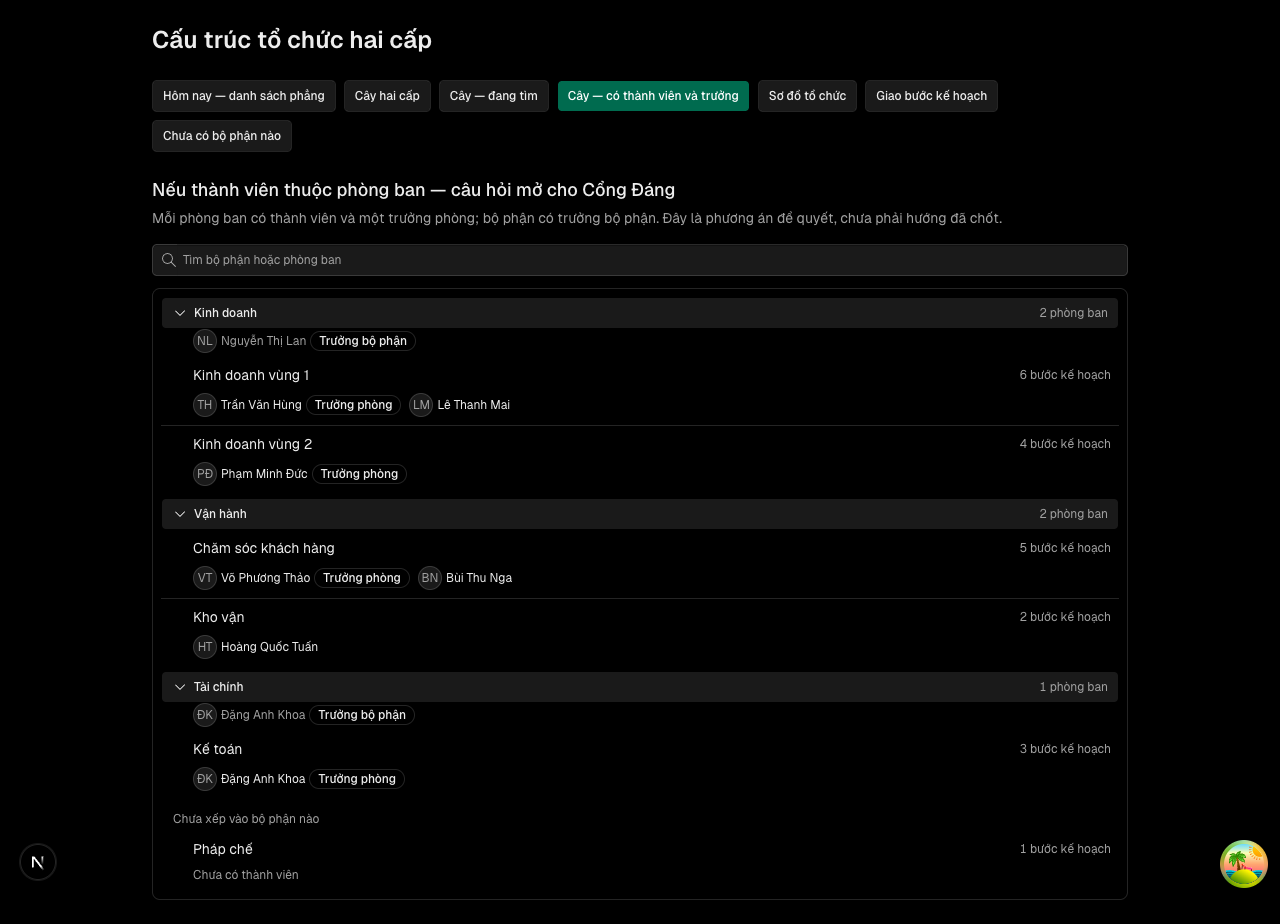
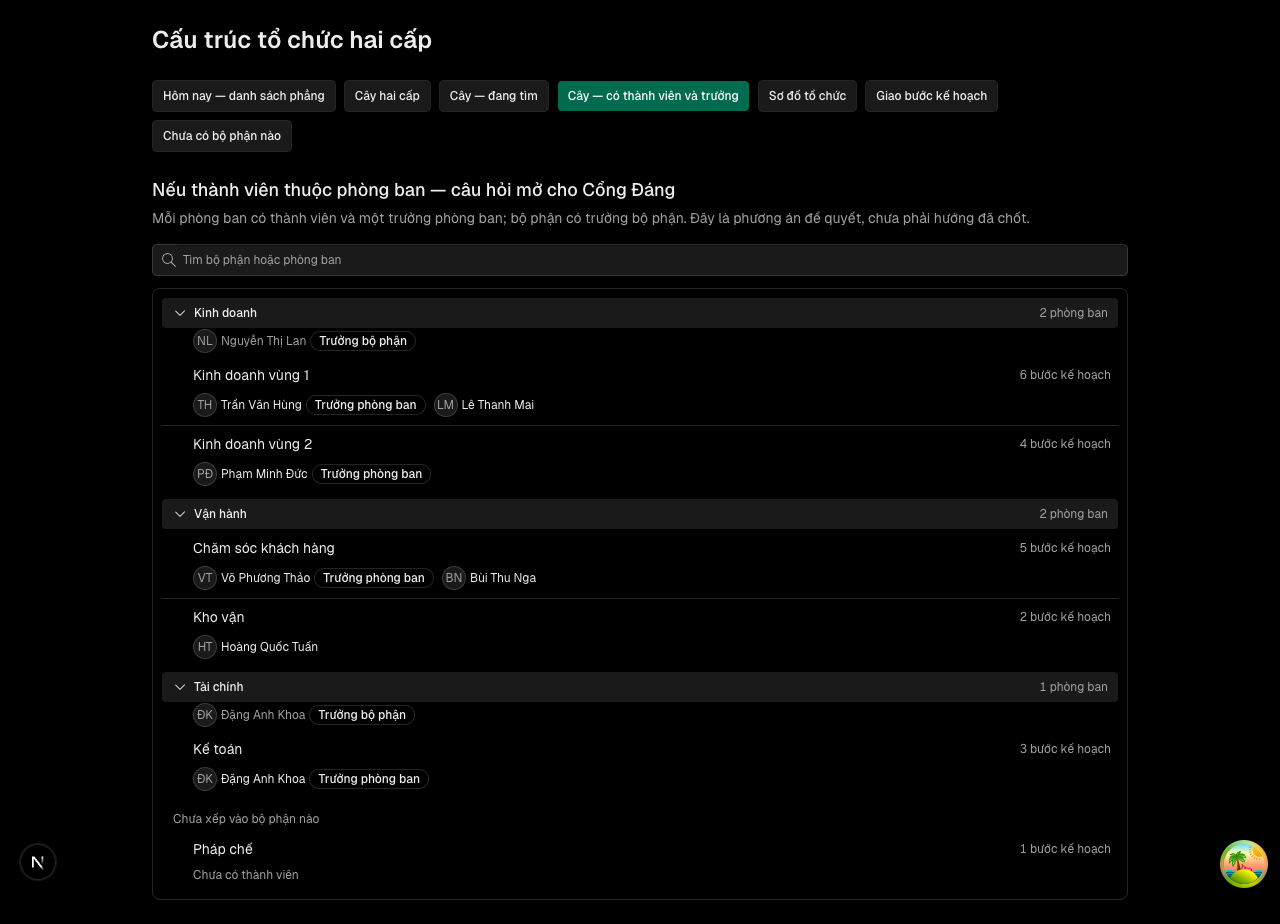
discovery(cau-truc-to-chuc): chữ theo từ điển PR #110, lịch R1 và ngưỡng đo theo ngày dựng cây thật

diff --git a/apps/app/app/proto/_modules/cau-truc-to-chuc/index.tsx b/apps/app/app/proto/_modules/cau-truc-to-chuc/index.tsx
@@ -105,7 +105,7 @@ function DongPhongBan({
 							<PersonAvatar size="sm" name={nguoi.ten} email={nguoi.email} />
 							<span translate="no">{nguoi.ten}</span>
 							{phongBan.truong?.id === nguoi.id ? (
-								<Badge variant="outline">Trưởng phòng</Badge>
+								<Badge variant="outline">Trưởng phòng ban</Badge>
 							) : null}
 						</span>
 					))}
@@ -488,7 +488,7 @@ export function CauTrucToChucMau({ state }: { state: string }) {
 		return (
 			<KhungMan
 				tieuDe="Nếu thành viên thuộc phòng ban — câu hỏi mở cho Cổng Đáng"
-				mo="Mỗi phòng ban có thành viên và một trưởng phòng; bộ phận có trưởng bộ phận. Đây là phương án để quyết, chưa phải hướng đã chốt."
+				mo="Mỗi phòng ban có thành viên và một trưởng phòng ban; bộ phận có trưởng bộ phận. Đây là phương án để quyết, chưa phải hướng đã chốt."
 			>
 				<CayToChuc boPhan={CAY_HAI_CAP} chuaXep={CHUA_XEP} coNguoi timSan="" />
 			</KhungMan>

diff --git a/_acceptance/cau-truc-to-chuc/opportunity.md b/_acceptance/cau-truc-to-chuc/opportunity.md
@@ -44,7 +44,8 @@ chưa chốt; người ký Cổng Đáng chốt hoặc sửa.
 
 - Thành viên có thuộc phòng ban không? → đề xuất: có — mỗi thành viên một phòng ban
   **chính**, thêm phòng ban phụ được; bảng nối thành viên–phòng ban.
-- Có trưởng phòng / trưởng bộ phận không? → đề xuất: có cả hai — trưởng là trường trên
+- Có trưởng phòng / trưởng bộ phận không? → đề xuất: có cả hai — «trưởng phòng ban» và
+  «trưởng bộ phận», gọi chung «trưởng đơn vị» (từ điển PR #110) — trưởng là trường trên
   đơn vị, không phải vai workspace (vai lạ hôm nay bị hạ im lặng về member). Quản lý
   trực tiếp suy từ trưởng phòng ban chính, ghi đè được từng người.
 - Bước kế hoạch giao cho phòng ban, hay cho người trong phòng ban? → đề xuất: vẫn giao
@@ -72,8 +73,17 @@ Phạm vi lượt 1 theo lộ trình:
 - Màn Điều phối 30 ngày đổi nhãn theo từ điển mới (hôm nay «Bộ phận» là bảng phẳng; sau
   lượt 1 bảng đó là **Phòng ban**, **Bộ phận** là cấp trên); lọc theo bộ phận hoạt động.
 
-Việc đi kèm ở bước chuẩn bị (không thuộc ô này nhưng phải xong trước vòng làm): thêm vào
-`CONTEXT.md` các mục Bộ phận, Phòng ban, Trưởng đơn vị và sửa mục «Bộ phận» hiện có.
+Việc đi kèm ở bước chuẩn bị (không thuộc ô này): các mục Bộ phận, Phòng ban, Đơn vị,
+Trưởng đơn vị của `CONTEXT.md` đang ở PR #110 (`docs/tu-dien-okr`). Vòng làm dùng đúng chữ
+trong đó; PR chưa gộp thì chờ, không viết mục từ điển riêng.
+
+Lịch và phụ thuộc (phiên điều phối lộ trình OKR báo 2026-09-24):
+
+- Mọi phòng ban áp dụng OKR quý 4 trên CRM từ 2026-10-26 (chủ kho chốt 2026-09-24).
+- Danh sách nhân sự thật tới trước 2026-10-16; quản trị dựng cây và nhập người trong tuần
+  2026-10-19.
+- R1 lên production trước 2026-10-23, và lượt 2 (vai «chỉ OKR») đứng trên lượt này — nên
+  phạm vi lượt 1 phải gọn.
 
 ## Ngưỡng chết / ngưỡng UAT
 
@@ -85,7 +95,9 @@ Việc đi kèm ở bước chuẩn bị (không thuộc ô này nhưng phải x
 - Kết quả nào là CHẾT: [đề xuất] Một tuần sau khi bật dưới 70% thành viên còn hiệu lực có
   phòng ban chính, hoặc quản trị phải nhờ sửa cơ sở dữ liệu mới dựng được cây — cây không
   đủ làm nền cho OKR quý 4 bắt đầu 2026-10-26.
-- Timebox: [đề xuất] vòng làm lượt 1 từ 2026-10-01 đến 2026-10-05; đo lần đầu 2026-10-12.
+- Timebox: [đề xuất] vòng làm lượt 1 từ 2026-10-01 đến 2026-10-05; cây thật được dựng trong
+  tuần 2026-10-19 (danh sách nhân sự tới trước 2026-10-16), nên đo lần đầu 2026-10-26 — một
+  tuần sau, cũng là ngày OKR quý 4 bắt đầu.
 
 ## Kết quả prototype
 
@@ -100,7 +112,7 @@ Bảy trạng thái, mỗi trạng thái đặt một câu hỏi mở lên màn:
 | Hôm nay — danh sách phẳng | Sáu hàng ngang nhau như trên prod | (mốc so sánh) |
 | Cây hai cấp | Bộ phận chứa phòng ban; phòng ban cũ giữ bước đã giao; phòng ban chưa xếp nằm riêng | Hướng giữ `Department`, thêm `Division` ở trên |
 | Cây — đang tìm | Gõ «vùng»: chỉ nhánh khớp còn lại và tự mở | Người điều phối lọc theo bộ phận |
-| Cây — có thành viên và trưởng | Thành viên, trưởng phòng, trưởng bộ phận | Thành viên có thuộc phòng ban không; có trưởng không |
+| Cây — có thành viên và trưởng | Thành viên, trưởng phòng ban, trưởng bộ phận | Thành viên có thuộc phòng ban không; có trưởng không |
 | Sơ đồ tổ chức | Cùng dữ liệu vẽ từ trên xuống: công ty → bộ phận → phòng ban, mỗi ô có người đứng đầu và số người, số bước | Cần sơ đồ nhìn cả công ty, hay cây gập mở là đủ |
 | Giao bước kế hoạch | Ô chọn nhóm phòng ban theo bộ phận | Bước giao cho phòng ban hay cho người |
 | Chưa có bộ phận nào | Ngày đầu sau khi bật: mọi phòng ban ở «chưa xếp», không mất bước nào | Dữ liệu cũ không phải chuyển |
@@ -133,3 +145,5 @@ hai phụ thuộc mà kho chưa có, cùng là phụ thuộc của block `flow-2
 - Quyền xem theo đơn vị — lượt 2–3 của OKR.
 - Cấp «nhóm» dưới phòng ban — để sau, khi có đơn vị thật cần.
 - Đồng bộ cây từ hệ thống nhân sự (TC-07) — chưa có hệ thống nguồn.
+- [đề xuất] Sơ đồ tổ chức có kéo, phóng to, di chuyển (React Flow + dagre) — để sau lượt 1
+  nếu nó làm trễ R1; lượt 1 giữ cây gập mở, sơ đồ tĩnh là tuỳ chọn.
